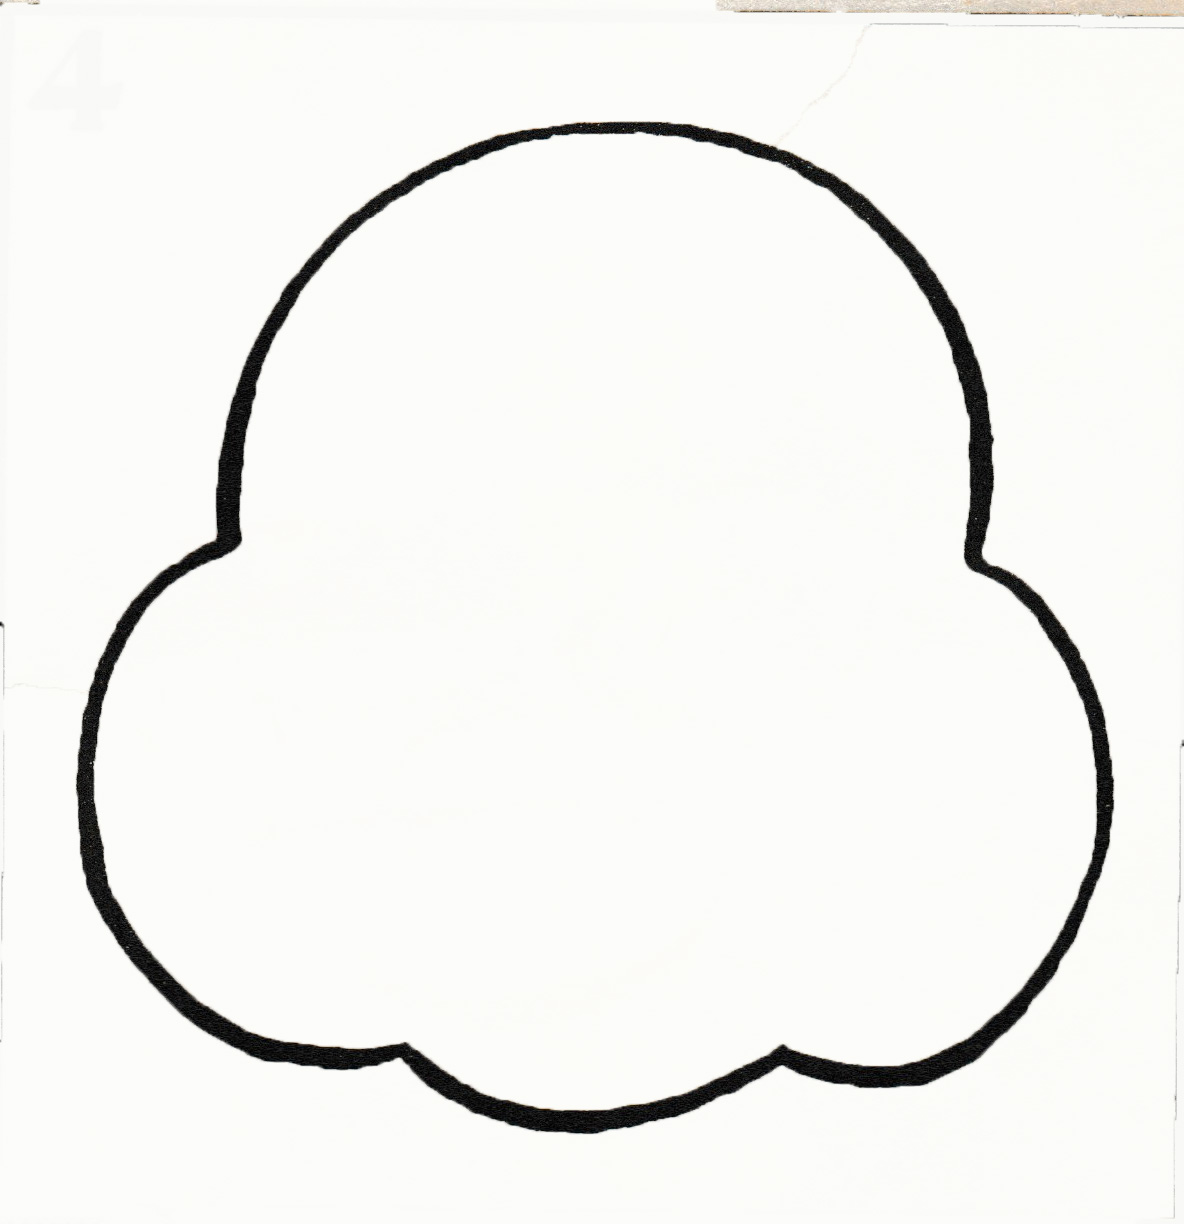
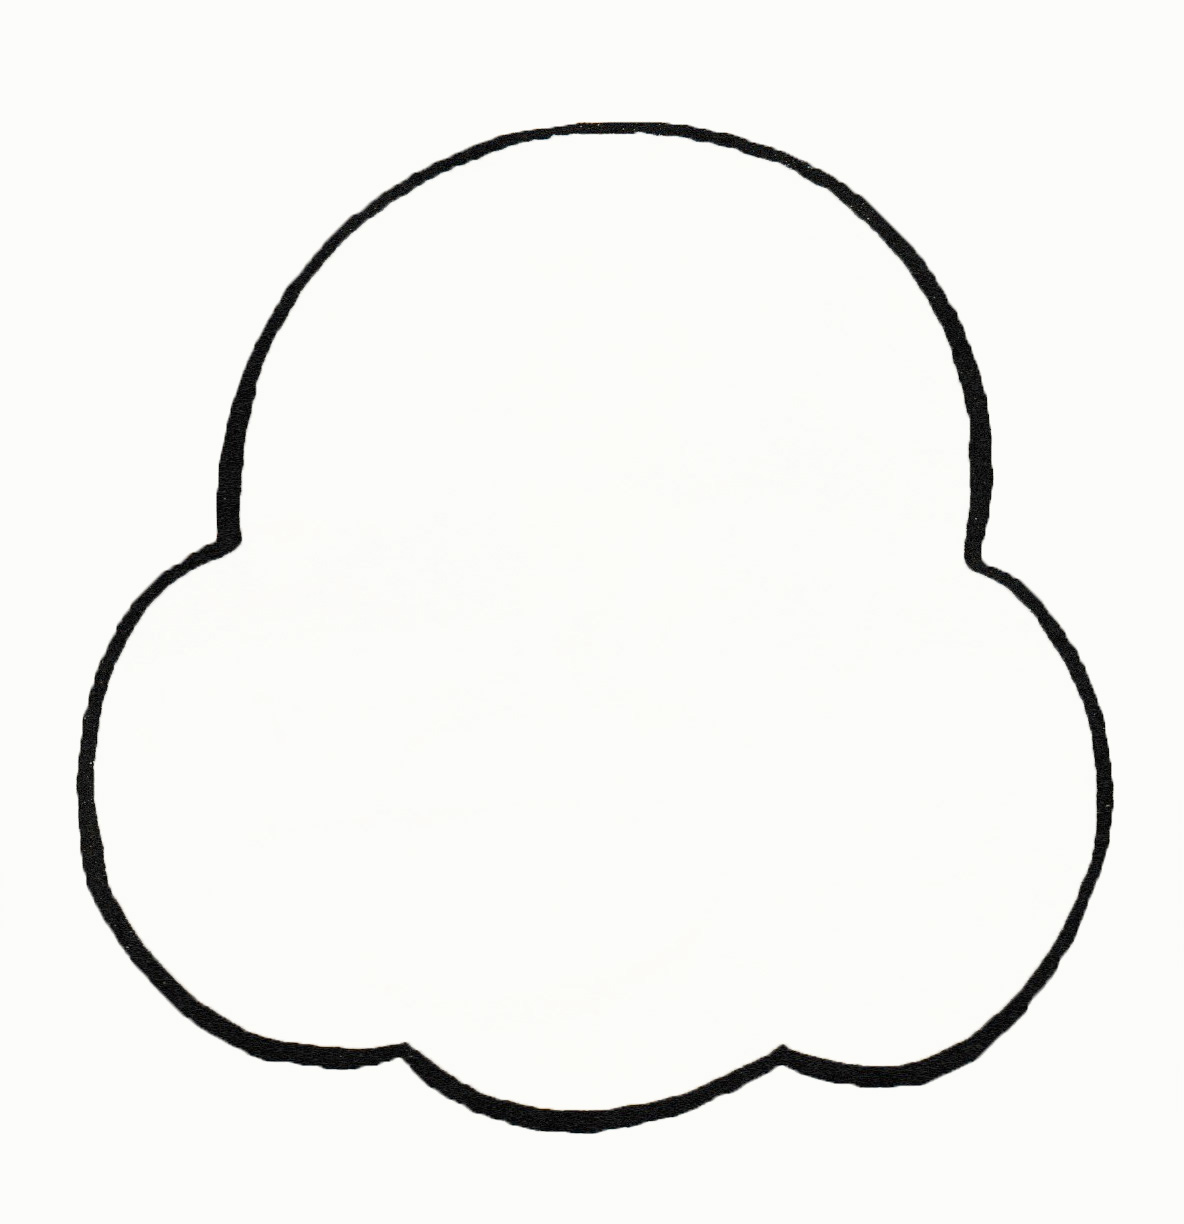
eod

diff --git a/templates/Main.html b/templates/Main.html
@@ -16,30 +16,30 @@
         .picture{
             position:absolute;
             top:10em;
-            left:12em;
+            left:10em;
         }
         .Heads {
             border: 5px solid black;
             position: absolute;
             top: 10em;
-            left: 12em;
+            left: 10em;
             height: 90em;
             width: 90em;
         }
         .Eyes {
             position: absolute;
             top: 10em;
-            left: 15em;
+            left: 16em;
         }
         .Noses {
             position: absolute;
             top: 12em;
-            left: 15em;
+            left: 16em;
         }
         .Mouths {
             position: absolute;
-            top: 10em;
-            left: 15em;
+            top: 14em;
+            left: 16em;
         }
     </style>
 </head>
@@ -66,7 +66,7 @@
     </div>
     <div class="picture">
         <img class="Heads" src="{{url_for('static', filename=fileName)}}" />
-        <img class="Eyes" src="{{url_for('static', filename=eyesName)}}" />
+        <!--<img class="Eyes" src="{{url_for('static', filename=eyesName)}}" />-->
         <img class="Noses" src="{{url_for('static', filename=nosesName)}}" />
         <!--<img class="Mouths" src="{{url_for('static', filename=mouthsName)}}" />-->
     </div>
